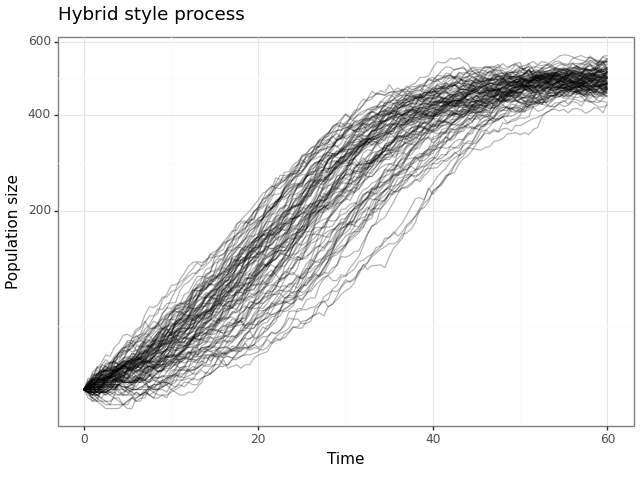
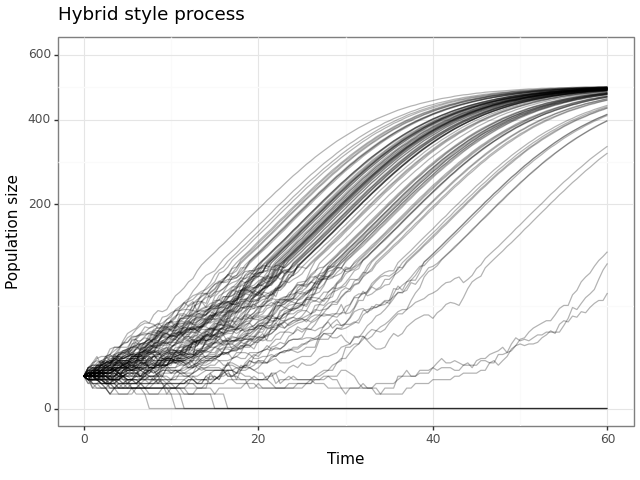
use the jsf code in the update method

diff --git a/particle-filter-example-sis/JSF_Solver_BasePython.py b/particle-filter-example-sis/JSF_Solver_BasePython.py
@@ -1,0 +1,328 @@
+# import numpy as np
+import random
+import math
+
+def JumpSwitchFlowSimulator(x0, rates, stoich, times, options):
+    """
+    x0 :: State                 # state at time zero.
+    rates :: State -> Time -> [Rate] # rate function.
+    stoich :: Structure
+    times :: Number             # think "final time"
+    options :: Structure
+    """
+    # predefine and initialise the system
+    # TODO - add default options
+
+    X0 = x0
+    nu = stoich["nu"]
+    nuReactant = stoich["nuReactant"]
+    DoDisc = stoich["DoDisc"]
+    DoCont = ArraySubtractAB([1]*len(DoDisc), DoDisc)
+
+    tFinal = times
+    dt = options["dt"]
+    EnforceDo = options["EnforceDo"]
+    SwitchingThreshold = options["SwitchingThreshold"]
+
+    nRates = len(nu)
+    nCompartments = len(nu[0])
+
+    # identify which compartment is in which reaction:
+    # LogicalCompartInNu = (np.logical_or(np.logical_not(nu), np.logical_not(nuReactant)))
+    # compartInNu = LogicalCompartInNu.astype(int)
+
+    NuComp = [[value != 0 for value in row] for row in nu]
+    ReactComp = [[value != 0 for value in row] for row in nuReactant]
+    compartInNu = [[value != 0 for value in row] for row in MatrixPlusAB(NuComp,ReactComp)]
+
+    discCompartment = [0]*nRates
+    for idx in range(nCompartments):
+        for compartIdx in range(nRates):
+            if  EnforceDo[idx]==0:
+                if DoDisc[idx]==1 and compartInNu[compartIdx][idx]:
+                    discCompartment[compartIdx] = 1
+            else:
+                if DoDisc[idx]==1 and compartInNu[compartIdx][idx]:
+                    discCompartment[compartIdx] = 1
+    contCompartment = ArraySubtractAB([1]*nRates,discCompartment)
+    # initialise discrete sum compartments
+    integralOfFiringTimes = [0]*nRates
+    # randTimes = np.random.rand(nRates).reshape(nRates, 1)
+    randTimes = [random.random() for _ in range(nRates)]
+
+
+    tauArray = [0]*nRates
+
+    overFlowAllocation = round(10 * (tFinal+dt)/dt + 1)
+
+    # initialise solution arrays
+
+    X = [[X0[i]] + [0.0] * (overFlowAllocation - 1) for i in range(nCompartments)]
+    TauArr = [0.0] * overFlowAllocation
+    iters = 0
+
+    # Track Absolute time
+    AbsT = 0
+    ContT = 0
+
+    Xprev = X0
+    Xcurr = X0
+
+    NewDiscCompartmemt = [0.0] * nCompartments
+
+    correctInteger = 0
+
+    while ContT < tFinal:
+
+        Xprev = [X[i][iters] for i in range(len(X))]
+        Dtau = dt
+        Props = rates(Xprev, ContT)
+
+        # check if any states change in this step
+        Dtau, correctInteger, DoDisc, DoCont, discCompartment, contCompartment, NewDoDisc, NewDoCont, NewdiscCompartment, NewcontCompartment, NewDiscCompartmemt = UpdateCompartmentRegime(dt, Xprev, Dtau, Props, nu, SwitchingThreshold, DoDisc, DoCont, EnforceDo, discCompartment, contCompartment, compartInNu, nCompartments,nRates)
+
+        # Perform the Forward Euler Step
+        dXdt = ComputedXdt(Xprev, Props, nu, contCompartment, nCompartments)
+
+        # Xcurr = X[:, iters] + Dtau * (dXdt * DoCont).flatten()
+        Xcurr = [X[i][iters] + Dtau * (dXdt[i] * DoCont[i]) for i in range(len(X))]
+
+        # Update the discrete compartments, if a state has just become discrete
+        OriginalDoCont = DoCont[:]
+        if correctInteger == 1:
+            contCompartment = NewcontCompartment[:]
+            discCompartment = NewdiscCompartment[:]
+            DoCont = NewDoCont[:]
+            DoDisc = NewDoDisc[:]
+
+
+        # Perform the Stochastic Loop
+        stayWhile = True if NNZ(DoCont) != nCompartments else False
+
+        AbsT = ContT
+        DtauContStep = Dtau
+        TimePassed = 0
+
+        while stayWhile:
+
+            if TimePassed > 0:
+                Props = rates(Xprev, AbsT)
+
+            integralStep = ComputeIntegralOfFiringTimes(Dtau, Props, rates, Xprev, Xcurr, AbsT)
+            integralOfFiringTimes = ArrayPlusAB(integralOfFiringTimes,integralStep)
+
+            # If any of the components have just become discrete, we need to update the integralOfFiringTimes and randTimes
+            if correctInteger == 1:
+                for ii in range(nCompartments):
+                    if NewDiscCompartmemt[ii] and not EnforceDo[ii]:
+                        for jj in range(nRates):
+                            if compartInNu[jj][ii]:
+                                discCompartment[jj] = 1
+                                integralOfFiringTimes[jj] = 0.0
+                                randTimes[jj] = random.random()
+
+            # Identify which reactions have fired
+            firedReactions = [
+                (0 > rand - (1 - math.exp(-integral))) * disc
+                for rand, integral, disc in zip(randTimes, integralOfFiringTimes, discCompartment)
+            ]
+
+
+            if NNZ(firedReactions) > 0:
+                # Identify which reactions have fired
+                tauArray = ComputeFiringTimes(firedReactions,integralOfFiringTimes,randTimes,Props,dt,nRates,integralStep)
+
+                if NNZ(tauArray) > 0:
+
+                    # Update the discrete compartments
+                    Xcurr, Xprev, integralOfFiringTimes, integralStep, randTimes, TimePassed, AbsT, DtauMin = ImplementFiredReaction(tauArray ,integralOfFiringTimes,randTimes,Props,rates,integralStep,TimePassed, AbsT, X, iters, nu, dXdt, OriginalDoCont)
+
+                    iters = iters + 1
+                    for i in range(len(X)):
+                        X[i][iters] = Xcurr[i]
+                    TauArr[iters] = AbsT
+
+                    Dtau = Dtau - DtauMin
+
+                else:
+                    stayWhile = False
+            else:
+                stayWhile = False
+
+            if TimePassed >= DtauContStep:
+                stayWhile = False
+
+        iters = iters + 1
+        ContT = ContT + DtauContStep
+        TauArr[iters] = ContT
+        for i in range(len(X)):
+            X[i][iters] = X[i][iters - 1] + (DtauContStep - TimePassed) * (dXdt[i] * DoCont[i])
+
+        if correctInteger == 1:
+            pos = NewDiscCompartmemt.index(max(NewDiscCompartmemt))
+            X[pos][iters] = round(X[pos][iters])
+
+            for jj in range(nRates):
+                if compartInNu[jj][pos]:
+                    discCompartment[jj] = 1
+                    integralOfFiringTimes[jj] = 0.0
+                    randTimes[jj] = random.random()
+            NewDiscCompartmemt[pos] = 0
+
+    trimmed_TauArr = TauArr[:iters + 1]
+    trimmed_X = [X_row[:iters + 1] for X_row in X]
+
+
+    return trimmed_X, trimmed_TauArr
+
+def ComputeFiringTimes(firedReactions,integralOfFiringTimes,randTimes,Props,dt,nRates,integralStep):
+    tauArray = [0.0] * nRates
+    for kk in range(nRates):
+        if firedReactions[kk]:
+            ExpInt = math.exp(-(integralOfFiringTimes[kk] - integralStep[kk]))
+            Integral = math.log((1 - randTimes[kk]) / ExpInt)
+            tau_val_1 = Integral / (-1 * Props[kk])
+
+            tau_val_2 = -1
+            tau_val = tau_val_1
+            if tau_val_1 < 0:
+                tau_val_1 = abs(tau_val_1)
+                if abs(tau_val_1) < dt ** 2:
+                    tau_val_2 = abs(tau_val_1)
+                tau_val_1 = 0
+                tau_val = max(tau_val_1, tau_val_2)
+
+            tauArray[kk] = tau_val
+
+    return tauArray
+
+def ImplementFiredReaction(tauArray ,integralOfFiringTimes,randTimes,Props,rates,integralStep,TimePassed, AbsT, X, iters, nu, dXdt, OriginalDoCont):
+    tauArray = [float('inf') if tau == 0.0 else tau for tau in tauArray]
+
+    DtauMin = min(tauArray)
+    pos = tauArray.index(DtauMin)
+
+    TimePassed = TimePassed + DtauMin
+    AbsT = AbsT + DtauMin
+
+    Xcurr = [X[i][iters] + nu[pos][i] + DtauMin * (dXdt[i] * OriginalDoCont[i]) for i in range(len(X))]
+    Xprev = [X[i][iters] for i in range(len(X))]
+
+    integralOfFiringTimes = [integral - step for integral, step in zip(integralOfFiringTimes, integralStep)]
+    integralStep = ComputeIntegralOfFiringTimes(DtauMin, Props, rates, Xprev, Xcurr, AbsT)
+    integralOfFiringTimes = [integral + step for integral, step in zip(integralOfFiringTimes, integralStep)]
+
+    integralOfFiringTimes[pos] = 0.0
+    randTimes[pos] = random.random()
+
+    return Xcurr, Xprev, integralOfFiringTimes, integralStep, randTimes, TimePassed, AbsT, DtauMin
+
+def ComputeIntegralOfFiringTimes(Dtau, Props, rates, Xprev, Xcurr, AbsT):
+    # Props = rates(Xprev, AbsT)
+    # Integrate the cumulative wait times using trapezoid method
+    integralStep = [Dtau * 0.5 * (Props[i] + rates(Xcurr, AbsT + Dtau)[i]) for i in range(len(Props))]
+    return integralStep
+
+def ComputedXdt(Xprev, Props, nu, contCompartment, nCompartments):
+    # dXdt = np.sum(Props * (contCompartment * nu), axis=0).reshape(nCompartments, 1)
+    dXdt = [sum(Props[i] * contCompartment[i] * nu[i][j] for i in range(len(Props))) for j in range(len(nu[0]))]
+
+    return dXdt
+
+def UpdateCompartmentRegime(dt, Xprev, Dtau, Props, nu, SwitchingThreshold, DoDisc, DoCont, EnforceDo, discCompartment, contCompartment, compartInNu, nCompartments,nRates):
+    # check if any states change in this step
+    NewDoDisc, NewDoCont, NewdiscCompartment, NewcontCompartment = IsDiscrete(Xprev, SwitchingThreshold, DoDisc, DoCont, EnforceDo, discCompartment, contCompartment, compartInNu, nCompartments,nRates)
+
+    correctInteger = 0
+    NewDiscCompartmemt = [0] * nCompartments
+
+    # Identify if a state has just become discrete
+    if NNZ(NewDoDisc) > NNZ(DoDisc):
+        # Identify which compartment has just switched
+        pos = None
+        for i, (new_do_disc, do_disc) in enumerate(zip(NewDoDisc, DoDisc)):
+            if new_do_disc and not do_disc:
+                pos = i
+                break
+
+        if pos is not None:
+            # Here, we identify the time to the next integer
+            dXdt = [sum(Props[i] * contCompartment[i] * nu[i][j] for i in range(len(Props))) for j in range(len(nu[0]))]
+
+
+
+            dXdt_min = min(dXdt)
+            Xprev_pos = Xprev[pos]
+            rounded_Xprev_pos = round(Xprev_pos)
+            dXdt_pos = dXdt[pos]
+
+            Dtau = min(dt, abs((rounded_Xprev_pos - Xprev_pos) / dXdt_pos))
+
+            # If the time to the next integer is less than the time step, we need to move the mesh
+            if Dtau < dt:
+                NewDiscCompartmemt[pos] = 1
+                correctInteger = 1
+    else:
+        contCompartment = NewcontCompartment
+        discCompartment = NewdiscCompartment
+        DoCont = NewDoCont
+        DoDisc = NewDoDisc
+
+    return Dtau, correctInteger, DoDisc, DoCont, discCompartment, contCompartment, NewDoDisc, NewDoCont, NewdiscCompartment, NewcontCompartment, NewDiscCompartmemt
+
+def IsDiscrete(X, SwitchingThreshold, DoDisc, DoCont, EnforceDo, discCompartment, contCompartment, compartInNu, nCompartments, nRates):
+    # Check if any compartments should be switched to continuous
+    DoDiscTmp = [(1 if x < threshold else 0) for x, threshold in zip(X, SwitchingThreshold)]
+    DoContTmp = [1 - x for x in DoDiscTmp]
+
+    for idx, x in enumerate(EnforceDo):
+        if x == 1:
+            DoDiscTmp[idx] = DoDisc[idx]
+            DoContTmp[idx] = DoCont[idx]
+
+    are_equal = [DoDiscTmp[idx] == DoDisc[idx] for idx in range(nCompartments)]
+
+    if sum(are_equal) == nCompartments:
+        discCompartmentTmp = discCompartment.copy()
+        contCompartmentTmp = contCompartment.copy()
+    else:
+        discCompartmentTmp = [0] * nRates
+
+        for idx in range(nCompartments):
+            for compartIdx in range(nRates):
+                if EnforceDo[idx] == 0:
+                    if DoDiscTmp[idx] == 1 and compartInNu[compartIdx][idx] == 1:
+                        discCompartmentTmp[compartIdx] = 1
+                else:
+                    if DoDisc[idx] == 1 and compartInNu[compartIdx][idx] == 1:
+                        discCompartmentTmp[compartIdx] = 1
+
+    contCompartmentTmp = [1 - x for x in discCompartmentTmp]
+
+
+    return DoDiscTmp, DoContTmp, discCompartmentTmp, contCompartmentTmp
+
+
+
+
+
+# these are helper functions to make it readable
+def ArraySubtractAB(ArrayA, ArrayB):
+    AMinusB = [a - b for a, b in zip(ArrayA, ArrayB)]
+    return AMinusB
+def ArrayPlusAB(ArrayA, ArrayB):
+    APlusB = [a + b for a, b in zip(ArrayA, ArrayB)]
+    return APlusB
+def MatrixSubtractAB(MatrixA,MatrixB):
+    AMinusB = [[a - b for a, b in zip(row1, row2)] for row1, row2 in zip(MatrixA, MatrixB)]
+    return AMinusB
+def MatrixPlusAB(MatrixA,MatrixB):
+    APlusB = [[a + b for a, b in zip(row1, row2)] for row1, row2 in zip(MatrixA, MatrixB)]
+    return APlusB
+def NNZ(Array):
+    # NumberOfNonZeros
+    non_zero_count = sum(1 for element in Array if element != 0)
+    return non_zero_count
+def MatrixDOTArray(Matrix,Array):
+    result = [sum(row[i] * Array[i] for i in range(len(Array))) for row in Matrix]
+    return result

diff --git a/particle-filter-example-sis/placeholder.py b/particle-filter-example-sis/placeholder.py
@@ -4,6 +4,7 @@ from pypfilt.model import Model
 from pypfilt.obs import Univariate, Obs
 import pdb
 
+import JSF_Solver_BasePython as JSF
 
 def _update(ctx, time_step, ptcl):
     """
@@ -38,11 +39,45 @@ def _select_next_event(ctx, ptcl, stop_time):
     ptcl['next_event'] = is_inf.astype(np.int_)
 
 
-def magic(ctx, time_step, input_ptcl):
-    ptcl = input_ptcl.copy()
-    if np.isnan(ptcl['next_time']):
-        ptcl['next_time'] = 0
-        _select_next_event(ctx, ptcl, stop_time=0)
+_switch_thresh = [100, 100]
+_nu_reactants = [[1, 1],
+                 [0, 1]]
+_nu_products = [[0, 2],
+                [1, 0]]
+_nu = [[a - b for a, b in zip(r1, r2)]
+       for r1, r2 in zip(_nu_products, _nu_reactants)]
+DoDisc = [1, 1]
+EnforceDo = [0, 0]
+_stoich = {'nu': _nu,
+           'DoDisc': DoDisc,
+           'nuReactant': _nu_reactants,
+           'nuProduct': _nu_products}
 
-    _update(ctx, time_step, ptcl)
+def rates(x, theta, time):
+    """
+    """
+    s = x[0]
+    i = x[1]
+    m_beta = theta[0]
+    m_gamma = theta[1]
+    return [m_beta*(s*i)/(s+i),
+            m_gamma*i]
+
+
+def magic(ctx, time_step, input_ptcl):
+    _my_opts = {'EnforceDo': EnforceDo,
+                'dt': time_step.dt,
+                'SwitchingThreshold': _switch_thresh}
+
+    ptcl = input_ptcl.copy()
+
+    x0 = [ptcl['S'], ptcl['I']]
+    theta = [ptcl['betaCoef'], ptcl['gammaCoef']]
+
+    xs, ts = JSF.JumpSwitchFlowSimulator(x0,lambda x, time: rates(x, theta, time),_stoich,time_step.dt,_my_opts)
+
+    ptcl['S'] = xs[0][-1]
+    ptcl['I'] = xs[1][-1]
+    # pdb.set_trace()
+
     return ptcl

diff --git a/particle-filter-example-sis/run-simulations.py b/particle-filter-example-sis/run-simulations.py
@@ -44,7 +44,7 @@ def simulation_plot(sim_df, name):
                                       y = "value",
                                       group = "particle"),
                         alpha = 0.3)
-            + scale_y_sqrt()
+            + scale_y_sqrt(limits = (0, 600))
             + labs(title = name,
                    y = "Population size",
                    x = "Time")
